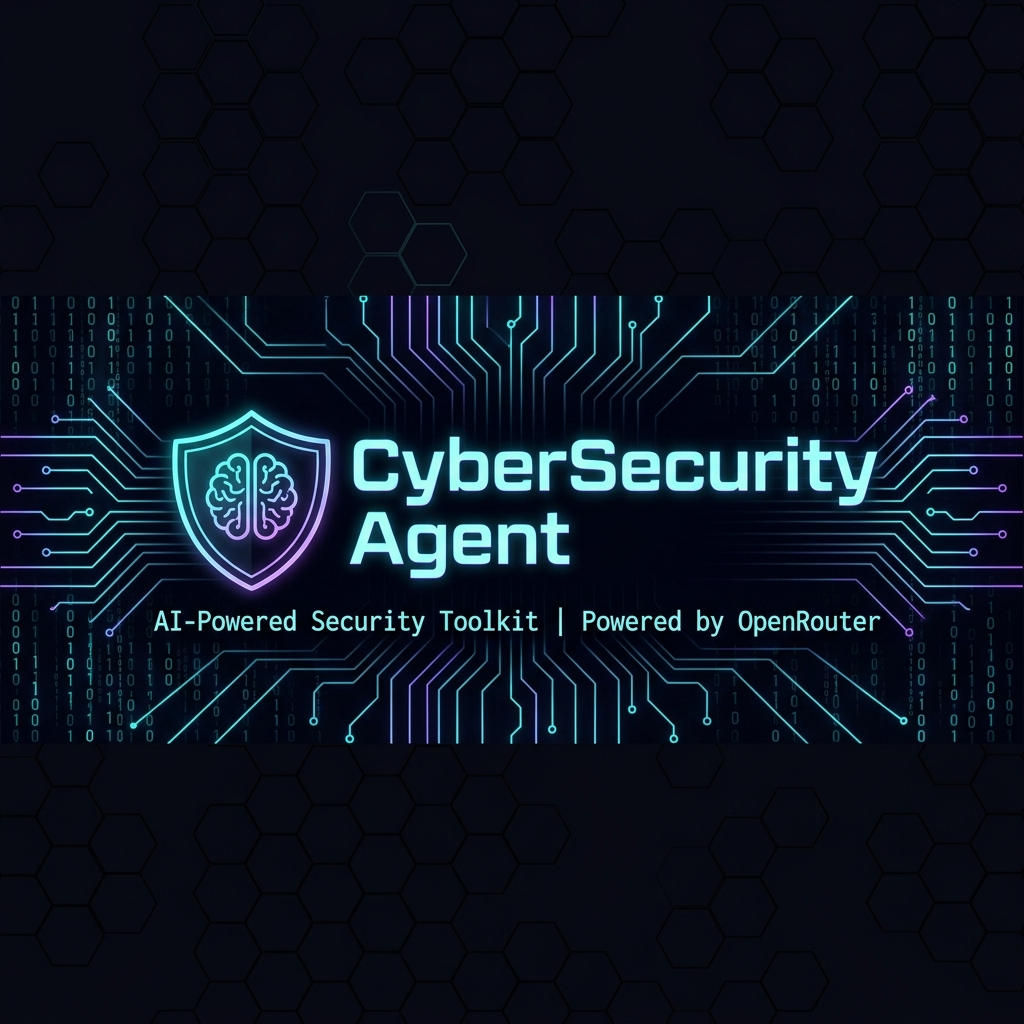
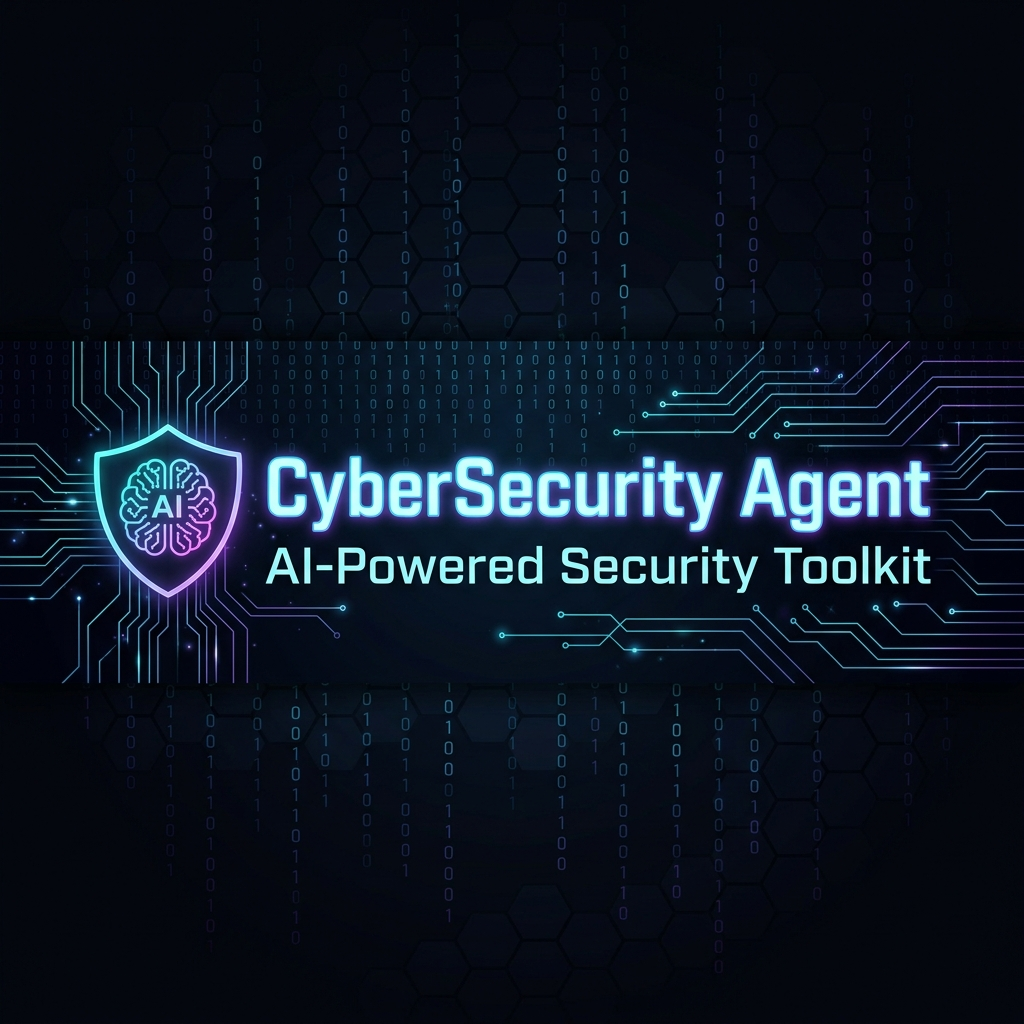
refactor: remove OpenRouter branding and references

diff --git a/main.py b/main.py
@@ -1,6 +1,6 @@
 """
 ╔══════════════════════════════════════════════════════════════╗
-║            AI DevTools — Powered by OpenRouter               ║
+║            AI DevTools — Security & Bug Analyzer             ║
 ║  Bug | Security | Web Pentest | Recon | Hardening | CodeGen  ║
 ╚══════════════════════════════════════════════════════════════╝
 """
@@ -611,7 +611,7 @@ def main():
         console.print()
         if choice == "0":
             console.print(Panel(
-                "[bold cyan]👋 Terima kasih menggunakan AI DevTools!\nPowered by OpenRouter 🚀[/]",
+                "[bold cyan]👋 Terima kasih menggunakan AI DevTools! 🚀[/]",
                 border_style="cyan"))
             sys.exit(0)
         handler = ROUTES.get(choice)

diff --git a/config.py b/config.py
@@ -15,9 +15,9 @@ if _env_file.exists():
             os.environ.setdefault(k.strip(), v.strip().strip('"').strip("'"))
 
 # ── API Key (wajib diset di .env atau environment variable) ─
-API_KEY = os.environ.get("OPENROUTER_API_KEY", "")
+API_KEY = os.environ.get("AI_API_KEY", "")
 if not API_KEY:
-    print("[ERROR] OPENROUTER_API_KEY belum diset!")
+    print("[ERROR] AI_API_KEY belum diset!")
     print("Salin .env.example menjadi .env lalu isi API key Anda.")
     import sys; sys.exit(1)
 

diff --git a/README.md b/README.md
@@ -5,12 +5,11 @@
 ![Banner](assets/banner.png)
 
 ![Python](https://img.shields.io/badge/Python-3.8%2B-blue?style=for-the-badge&logo=python)
-![OpenRouter](https://img.shields.io/badge/OpenRouter-API-purple?style=for-the-badge)
 ![License](https://img.shields.io/badge/License-MIT-green?style=for-the-badge)
 ![Platform](https://img.shields.io/badge/Platform-Windows%20%7C%20Linux%20%7C%20macOS-lightgrey?style=for-the-badge)
 
 **AI-powered cybersecurity & development toolkit yang berjalan di terminal.**  
-Didukung oleh [OpenRouter](https://openrouter.ai) dengan akses ke puluhan model AI terbaik — **gratis maupun berbayar.**
+Memiliki akses ke puluhan model AI terbaik — **gratis maupun berbayar.**
 
 </div>
 
@@ -60,6 +59,7 @@ CyberSecurity Agent memiliki **18 mode analisis** yang terbagi dalam 3 kategori:
 
 ### Prasyarat
 - Python **3.8+**
+- AI API Key yang valid
 
 ### Langkah Instalasi
 
@@ -73,7 +73,7 @@ pip install -r requirements.txt
 
 # 3. Setup API Key
 cp .env.example .env
-# Edit .env dan isi API_KEY dengan key Anda
+# Edit .env dan isi AI_API_KEY dengan key Anda
 
 # 4. Jalankan
 python -X utf8 main.py
@@ -90,6 +90,11 @@ run.bat
 ## ⚙ Konfigurasi
 
 Buat file `.env` di root project:
+
+```env
+# Masukkan API Key Anda di sini
+AI_API_KEY=sk-or-v1-your_api_key_here
+```
 
 ---
 
@@ -172,6 +177,7 @@ CyberSecurityAgent/
 ├── requirements.txt  # Dependencies Python
 ├── run.bat           # Launcher Windows (double-click)
 ├── .env.example      # Template konfigurasi API key
+├── .env              # API key Anda (JANGAN di-commit!)
 └── history/          # Hasil analisis tersimpan (auto-generated)
     ├── web_pentest_20260527_022807.md
     ├── bug_analysis_20260527_*.md
@@ -184,7 +190,7 @@ CyberSecurityAgent/
 
 ```txt
 rich>=13.0.0      # Beautiful terminal UI
-requests>=2.31.0  # HTTP client untuk OpenRouter API
+requests>=2.31.0  # HTTP client
 ```
 
 Install:
@@ -208,7 +214,7 @@ pip install -r requirements.txt
 
 - **API key tidak pernah di-hardcode** — selalu dibaca dari environment variable / `.env`
 - File `.env` masuk `.gitignore` secara default
-- Tidak ada data yang dikirim selain ke OpenRouter API resmi
+- Data dikirim hanya ke API endpoint yang terkonfigurasi
 
 ---
 
@@ -230,7 +236,7 @@ Proyek ini dilisensikan di bawah [MIT License](LICENSE).
 
 <div align="center">
 
-**Dibuat dengan ❤ | Powered by [OpenRouter](https://openrouter.ai)**
+**Dibuat dengan ❤ | AI DevTools**
 
 ⭐ Jika berguna, berikan Star di GitHub!
 
